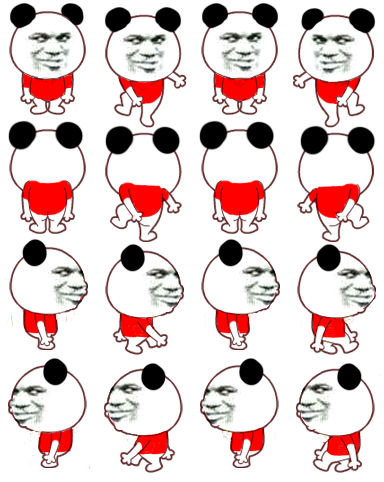
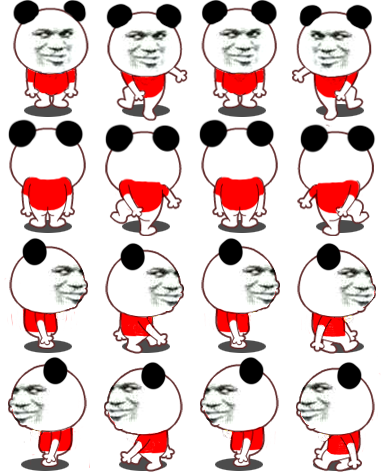
本地渲染/素材微调

diff --git a/client.js b/client.js
@@ -120,6 +120,42 @@ class Sprite {
     );
   }
 
+  renderBottom(delta, positionX, positionY) {
+    ctx.drawImage(
+      Resource.getPng(this.type),
+      // 图片起画点
+      this.startX,
+      this.startY + this.sizeY * 3 / 5,
+      // 大小
+      this.sizeX,
+      this.sizeY * 2 / 5,
+      // 画哪
+      positionX - (this.sizeDrawX - UNIT_WIDTH) / 2,
+      positionY - (this.sizeDrawY - UNIT_HEIGHT) + this.sizeDrawY * 3 / 5,
+      // 实际大小
+      this.sizeDrawX,
+      this.sizeDrawY * 2 / 5,
+    );
+  }
+
+  renderTop(delta, positionX, positionY) {
+    ctx.drawImage(
+      Resource.getPng(this.type),
+      // 图片起画点
+      this.startX,
+      this.startY,
+      // 大小
+      this.sizeX,
+      this.sizeY * 3 / 5,
+      // 画哪
+      positionX - (this.sizeDrawX - UNIT_WIDTH) / 2,
+      positionY - (this.sizeDrawY - UNIT_HEIGHT),
+      // 实际大小
+      this.sizeDrawX,
+      this.sizeDrawY * 3 / 5,
+    );
+  }
+
   updateDir(dir) {
     if (this.frameVector.length) {
       this.startY = this.sizeY * this.frameVector[dir];
@@ -244,7 +280,7 @@ class Player extends Entity {
   downPlayer() {
     this.state.downPlayer();
     // 魔法数字...
-    this.sprite = new Sprite(types.entity.player_downed, 75, 82, 75, 82);
+    this.sprite = new Sprite(types.entity.player_downed, 75, 82, 96, 118);
     this.sprite.cycleTime = 200;
     this.sprite.maxCycle = 4;
   }
@@ -295,6 +331,14 @@ class Player extends Entity {
       this.applyInput(localInput);
       pendingInputs.push(localInput);
     }
+  }
+
+  renderBottom(delta) {
+    this.sprite.renderBottom(delta, this.state.x, this.state.y);
+  }
+
+  renderTop(delta) {
+    this.sprite.renderTop(delta, this.state.x, this.state.y);
   }
 }
 localPlayerId = '';
@@ -534,6 +578,15 @@ function render(delta) {
   for (var i = 0; i < MAX_ROW; i++) {
     var playersToRender = [];
     for (var j = 0; j < MAX_COL; j++) {
+      if (bombMatrix[i][j]) {
+        bomb.renderAt(0, j * UNIT_WIDTH, i * UNIT_HEIGHT);
+      }
+      for (var playerId in playerMatrix[i][j]) {
+        players[playerId].renderBottom(delta);
+        playersToRender.push(playerId);
+      }
+    }
+    for (var j = 0; j < MAX_COL; j++) {
       if (boxMatrix[i][j]) {
         box.renderAt(0, j * UNIT_WIDTH, i * UNIT_HEIGHT);
       }
@@ -543,19 +596,13 @@ function render(delta) {
       if (waveMatrix[i][j]) {
         wave.renderWithAt(0, j * UNIT_WIDTH, i * UNIT_HEIGHT, undefined, (waveMatrix[i][j] % 4) * wave.sprite.sizeY);
       }
-      if (bombMatrix[i][j]) {
-        bomb.renderAt(0, j * UNIT_WIDTH, i * UNIT_HEIGHT);
-      }
       if (lootMatrix[i][j]) {
         loot.renderWithAt(0, j * UNIT_WIDTH, i * UNIT_HEIGHT, (lootMatrix[i][j] - 1) * loot.sprite.sizeX, 0);
-      }
-      for (var playerId in playerMatrix[i][j]) {
-        playersToRender.push(playerId);
       }
     }
 
     for (var id in playersToRender) {
-      players[playersToRender[id]].render(delta);
+      players[playersToRender[id]].renderTop(delta);
     }
   }
 

diff --git a/shared.js b/shared.js
@@ -296,7 +296,7 @@ class PlayerState extends EntityState {
   pickupLoot(type) {
     switch(type) {
       case types.loot.speed:
-        this.speed = Math.min(this.maxSpeed, this.speed + 3);
+        this.speed = Math.min(this.maxSpeed, this.speed + 2);
       break;
       case types.loot.power:
         this.power = Math.min(this.maxPower, this.power + 1);
@@ -327,6 +327,8 @@ class PlayerState extends EntityState {
       toX = Math.max(0, this.x - diff);
       break;
     }
+    toX = Math.round(toX);
+    toY = Math.round(toY);
 
     var toColId = getColID(toX);
     var toRowId = getRowID(toY);
@@ -338,8 +340,8 @@ class PlayerState extends EntityState {
       return;
     }
 
-    this.x = Math.round(toX);
-    this.y = Math.round(toY);
+    this.x = toX;
+    this.y = toY;
     this.rowId = toRowId;
     this.colId = toColId;
 
